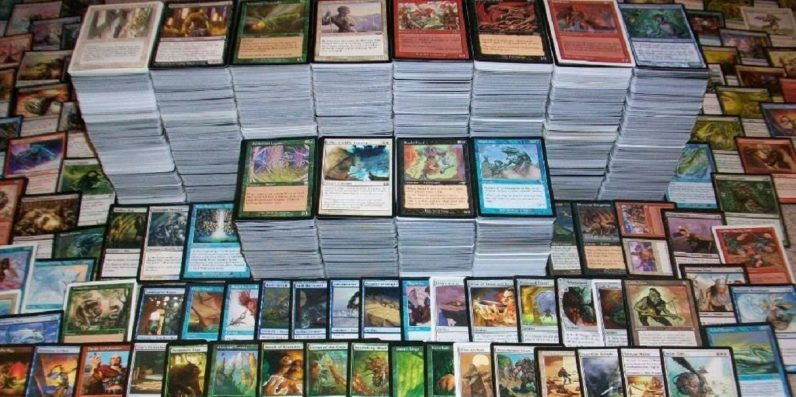
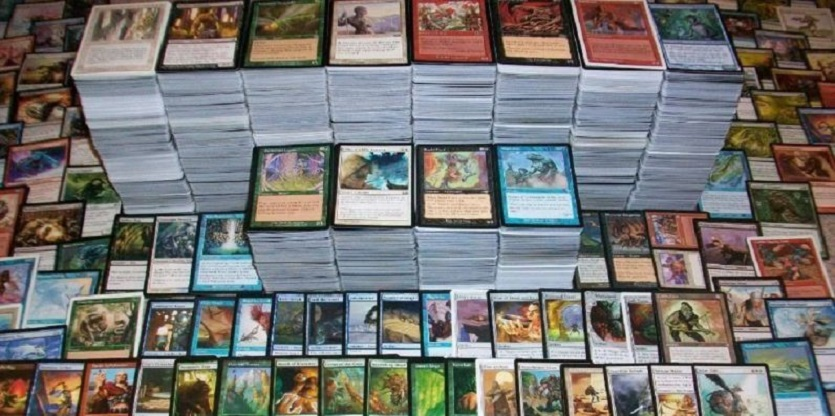
edited photo sizes. changed some text in .html, and experimented with css.

diff --git a/main.css b/main.css
@@ -3,9 +3,10 @@ h1
       border-style: solid;
       border-color: purple;
       Background-color: orange;
-      color: purple;
       padding: 20px;
       text-align: center;
+      
+      
   }
 
 h2
@@ -13,7 +14,6 @@ h2
       border-style: solid;
       border-color: purple;
       Background-color: yellow;
-      color: purple;
       padding: 20px;
       text-align: center;
   }
@@ -23,7 +23,6 @@ h3
       border-style: solid;
       border-color: purple;
       Background-color: orange;
-      color: purple;
       padding: 20px;
       text-align: center;
   }
@@ -32,16 +31,10 @@ p
       border-style: solid;
       border-color: purple;
       background-color: orangered;
-      color: purple;
       padding: 20px;
       text-align: center;
      
   }
-li.Directory1
-   {
-       color: orange;
-   }
-
 
 .Directory1 
   { 
@@ -62,21 +55,55 @@ table, th, td
     padding: 10px;
 
    }
+ 
 
-
-body 
+img.main-screen
    {
-     background-color: lightgreen
+    display: block;
+    margin-left: auto;
+    margin-right: auto;
+    width: 30%;
+     border: 3px solid purple;
+
+   }
+
+img 
+    {
+     margin-left: auto;
+     margin-right: auto;
+     border: solid 3px purple;
+    
+
+    }   
+
+body
+    {
+   
+    background-image: url(./assets/images/grateful-dead-bill-cannon.jpg)
      
 
 
    }   
 
-  .interests-table {
+.interests-table {
       background-color: orange;
-      color: purple;
       border-style: solid;
       border-color: purple;
       padding: 20px;
       text-align: center;
   }
+
+ol 
+   {
+    Background-color: yellow;
+    border: solid 3px purple;
+    position: center;
+    padding: 20px;
+
+   }
+
+li  
+   {
+    position: center;
+
+   }

diff --git a/index.html b/index.html
@@ -33,21 +33,21 @@
                 </div>
         <div>        
            <h2>Glade's Amazing Website of Funkyness</h2>
-          <img src="./assets/images/me n marsh.JPG"
+          <img class="main-screen" src="./assets/images/me n marsh.JPG"
            title="Me and my dawg" 
            alt="boston terrier, dog, legend, Marsh"/>
            <p>Hello, my name is <em>Glade David Brimhall</em> and this is a website that is all about me.
                 I love music and have been playing guitar for 7 years.<br> My main love is funk music
                 but i'm also a fan of blues, jazz, soul, hip-hop, reggae, and rock and roll. I love my dog Marsh,<br> he's a handsom, <strong>wild,</strong> and young Boston Terrier.
             </p>
-             <img src="assets/images/fender guitarPNG.png"
+             <img class="main-screen" src="assets/images/fender guitarPNG.png"
              title="Fender Stratocaster"
              alt="guitar, fender, stratocaster"/>
        </div>
 
    </section>
    <secton>
-       <img src="assets/images/boston gif.gif"
+       <img class="main-screen" src="assets/images/boston gif.gif"
        title="Boston Terrier gif"
        alt="dog, boston terrier, cupcake"/>
    </secton>

diff --git a/future.html b/future.html
@@ -28,7 +28,7 @@
                         He also wants to eventually create a website with instrustional videos and guitar lessons. He has learned music from many sources, but he thinks he has a unique
                         view on learning music and would like to share that with people. </p>
 
-            <img src="assets/images/toomanyguitars.jpg" title="Never too many guitars" alt="guitars, music, never too many">
+            <img class="main-screen" src="assets/images/toomanyguitars.jpg" title="Never too many guitars" alt="guitars, music, never too many">
 
                </section>
 

diff --git a/favsites.html b/favsites.html
@@ -35,7 +35,7 @@
                 <li><a target="_blank" href="https://www.coolstuffinc.com/">Coolstuffinc.com</li>
                 <li><a target="_blank" href="https://www.twitch.tv/">Twitch.tv</li>
             </ol>
-            <img src="assets/images/goldfish.jpg" title="MTG goldfish logo" alt="magic, MTG, goldfish">
+            <img class="main-screen" src="assets/images/goldfish.jpg" title="MTG goldfish logo" alt="magic, MTG, goldfish">
 
             </section>
    </body>

diff --git a/about.html b/about.html
@@ -98,8 +98,7 @@
                  <img src="./assets/images/pat rothfuss keep photo.jpg"
                  title="Rothfuss"
                  alt="Patrick Rothfuss, kingkiller chronicles, name of the wind, a wise man's fear"/>
-                 />
-                 />
+                 
                  </section>
 
                  <footer>
